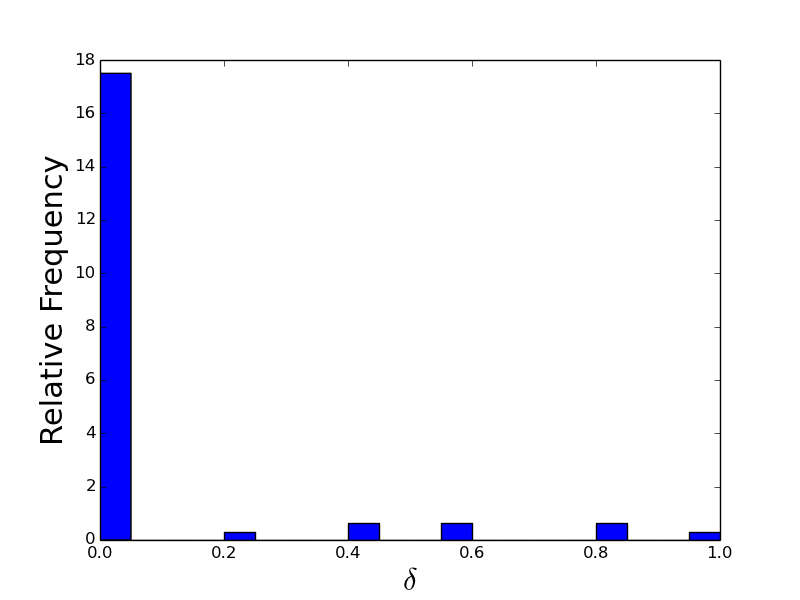
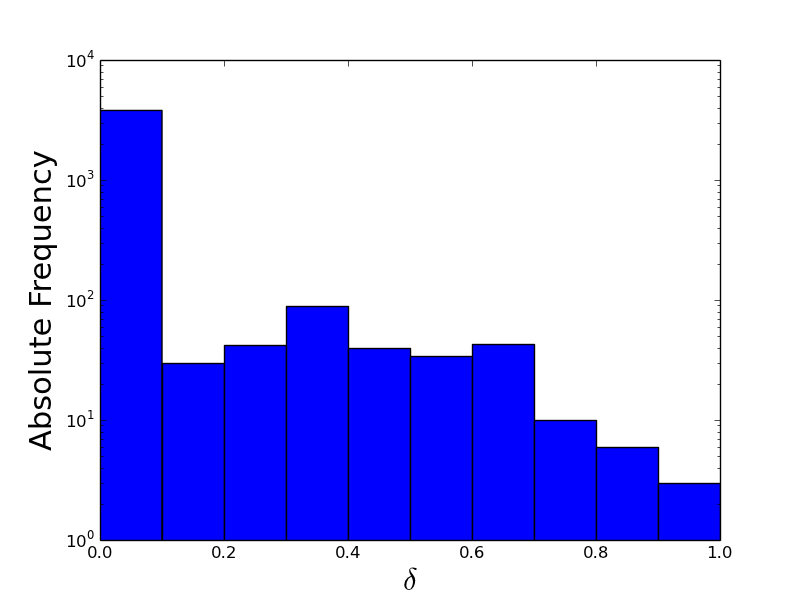
Tidied up `riodistribution` output
modified:   Q_distribution.png
	modified:   R_distribution.png
	modified:   delta_distribution.png
	modified:   riodistribution.py

diff --git a/riodistribution.py b/riodistribution.py
@@ -54,7 +54,8 @@ for source in sourceanswers:
                                         delta=d.ask_all_delta_questions(content, sourceanswer=source,analyseanswer=analyse,indepanswer=indep,repeatanswer=rep,instrumentanswer=inst,naturalanswer=nat,hoaxanswer=hoax, expertanswer=expert,predictanswer=pred)
                                         deltavalues.append(delta)
                                         
-                                        
+                      
+print '-------------------------'                  
 print "Computing all possible Rio values"
 
 Riovalues = []
@@ -68,30 +69,36 @@ mean = np.mean(np.array(Qvalues))
 median = np.median(np.array(Qvalues))
 stdev = np.std(np.array(Qvalues))
 
+print '-------------------------'
 print "Q Statistics:"
+print "Maximum: ",np.amax(Qvalues)
+print "Minimum: ", np.amin(Qvalues)
 print "Mean: ",mean
 print "Median: ", median
 print "Stdev: ",stdev
 
 fig1 = plt.figure()
 ax1 = fig1.add_subplot(111)
-ax1.hist(Qvalues, normed=False,bins=10)
+ax1.hist(Qvalues, range=[1,10],normed=False,bins=10)
 ax1.set_xlabel("$Q$", fontsize=22)
+ax1.set_xlim(0,11)
 ax1.set_ylabel("Absolute Frequency",fontsize=22)
 
 
 mean = np.mean(np.array(deltavalues))
 median = np.median(np.array(deltavalues))
 stdev = np.std(np.array(deltavalues))
-
+print '-------------------------'
 print "Delta Statistics:"
+print "Maximum: ",np.amax(deltavalues)
+print "Minimum: ", np.amin(deltavalues)
 print "Mean: ",mean
 print "Median: ", median
 print "Stdev: ",stdev
 
 fig2 = plt.figure()
 ax2 = fig2.add_subplot(111)
-ax2.hist(deltavalues, normed=False, log=True, bins=10)
+ax2.hist(deltavalues, range=[0,1], normed=False, log=True, bins=10)
 ax2.set_xlabel("$\delta$", fontsize=22)
 ax2.set_ylabel("Absolute Frequency",fontsize=22)
 
@@ -99,7 +106,7 @@ ax2.set_ylabel("Absolute Frequency",fontsize=22)
 mean = np.mean(np.array(Riovalues))
 median = np.median(np.array(Riovalues))
 stdev = np.std(np.array(Riovalues))
-
+print '-------------------------'
 print "R Statistics:"
 print "Mean: ",mean
 print "Median: ", median
@@ -107,7 +114,7 @@ print "Stdev: ",stdev
 
 fig1 = plt.figure()
 ax1 = fig1.add_subplot(111)
-ax1.hist(Riovalues, normed=False,log=True,bins=10)
+ax1.hist(Riovalues, range=[0,10], normed=False,log=True,bins=10)
 ax1.set_xlabel("$R$", fontsize=22)
 ax1.set_ylabel("Absolute Frequency",fontsize=22)
 
